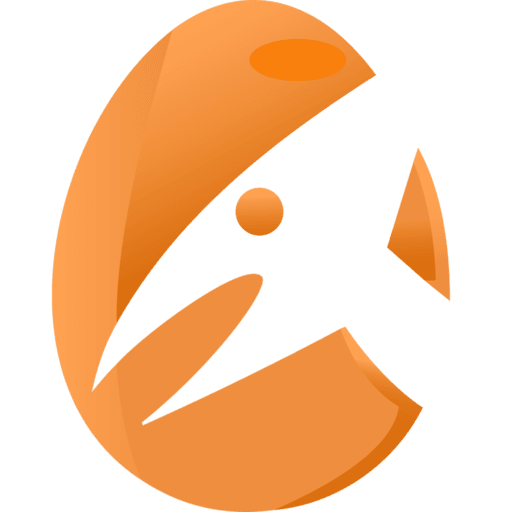
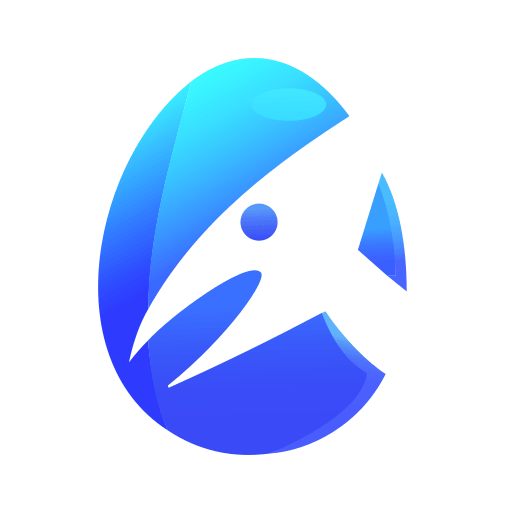
Revert Halloween changes

diff --git a/src/assets/landing.css b/src/assets/landing.css
@@ -1,33 +1,31 @@
 :root {
-	--purple-hsl: 29, 92%, 58%;
+	--purple-hsl: 213, 85%, 43%;
 	--overlay-blurple: hsla(var(--purple-hsl), 0.2);
 	--sl-color-accent-low: #102440;
-	--sl-color-accent: #ce6514;
-	--sl-color-accent-high: #ff8848;
+	--sl-color-accent: #1468ce;
+	--sl-color-accent-high: #48A9FF;
 }
 
 iframe {
-    background-color: transparent;
+	background-color: transparent;
 }
 
 /* Apply transparent background to content inside the iframe */
 iframe body {
-    background-color: transparent;
+	background-color: transparent;
 }
 
 :root[data-theme='light'] {
-	--purple-hsl: 29, 96%, 52%;
 	--sl-color-accent-low: #c5d9f4;
-	--sl-color-accent: #ce6514;
-	--sl-color-accent-high: #ff8848;
+	--sl-color-accent: #1468ce;
+	--sl-color-accent-high: #1066cc;
 }
 
 [data-has-hero] .page {
 	background:
 		linear-gradient(215deg, var(--overlay-blurple), transparent 40%),
 		radial-gradient(var(--overlay-blurple), transparent 40%) no-repeat -60vw -40vh / 105vw 200vh,
-		radial-gradient(var(--overlay-blurple), transparent 65%) no-repeat 50% calc(100% + 20rem) /
-			60rem 30rem;
+		radial-gradient(var(--overlay-blurple), transparent 65%) no-repeat 50% calc(100% + 20rem) / 60rem 30rem;
 }
 
 [data-has-hero] header {
@@ -35,9 +33,9 @@ iframe body {
 	background-color: transparent;
 	-webkit-backdrop-filter: blur(16px);
 	backdrop-filter: blur(16px);
-}   
+}
 
-[data-has-hero] .hero > img {
+[data-has-hero] .hero>img {
 	filter: drop-shadow(0 0 3rem var(--overlay-blurple));
 }
 
@@ -61,9 +59,11 @@ iframe body {
 	gap: 1rem;
 	font-size: clamp(1rem, calc(0.75rem + 1vw), 1.65rem);
 }
+
 .ph-houston {
 	padding-block: 0.25rem;
 }
+
 .ph-text {
 	display: flex;
 	flex-direction: column;
@@ -71,6 +71,7 @@ iframe body {
 	text-align: start;
 	padding-block: var(--sl-nav-pad-y);
 }
+
 .ph-text strong {
 	font-weight: 600;
 }
@@ -89,12 +90,15 @@ iframe body {
 	.ph-banner {
 		gap: 3.5rem;
 	}
+
 	.ph-houston {
 		padding: 0;
 	}
+
 	.ph-houston img {
 		scale: 1.75;
 	}
+
 	.ph-text {
 		flex-direction: row;
 		flex-wrap: wrap;
